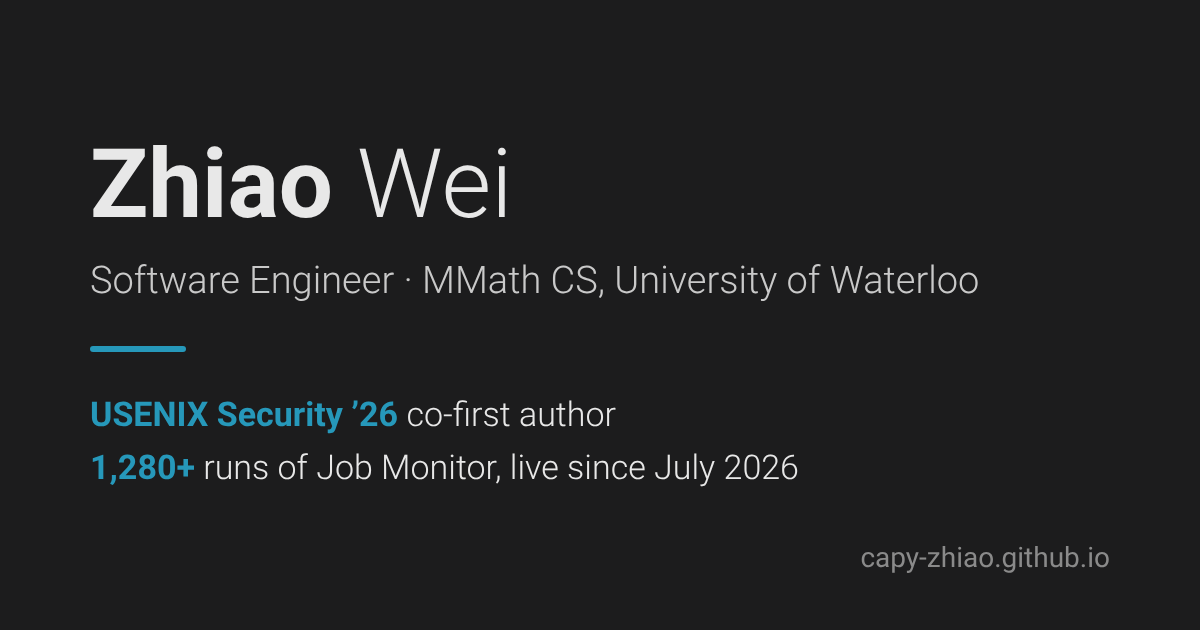
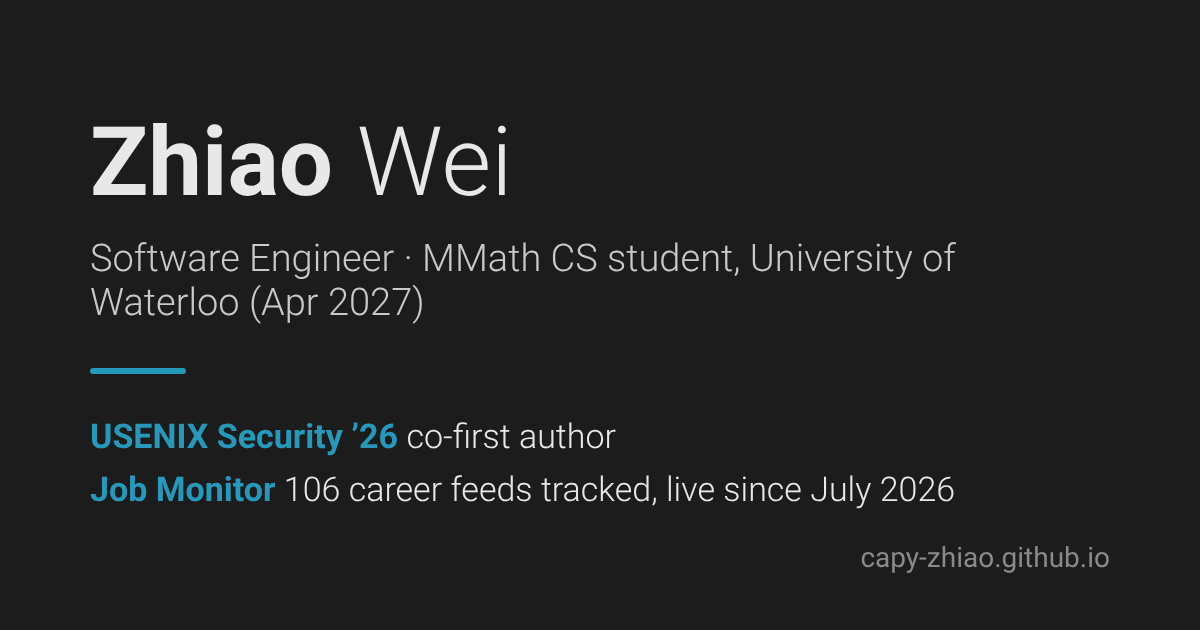
Homepage: tighten proof lines and polish after review
- Job Monitor line dated "as of October 2026" with "a 15-minute schedule",
  so the run count and the cadence no longer seem to contradict.
- LeetCode Tracker line says "200+ backend tests" and "built with Claude
  Code", as its project page does.
- Bio names the MMath supervision; the SaTS paper is marked "to appear,
  November 2026"; the card link reads "Live dashboard".
- Link-preview card says "MMath CS student ... (Apr 2027)" and drops the
  run count that previews would cache.
- Cards: thin border, links pinned to the bottom of each card. Phones: the
  experience rows stack the same way in every entry; narrower venue
  badges. Muted text raised to 4.5:1 contrast in both themes.

Claude-Session: https://claude.ai/code/session_01H6JoBrR1RSqRdoPetduxNY

diff --git a/assets/css/main.scss b/assets/css/main.scss
@@ -1,6 +1,6 @@
 ---
-# Local copy of al_folio_core 1.0.11's assets/css/main.scss; the only change is
-# the accent color passed to "variables" below.
+# Local copy of al_folio_core 1.0.11's assets/css/main.scss. Changes: the accent
+# color passed to "variables" below, and darker/lighter muted text at the end.
 ---
 @charset "utf-8";
 
@@ -35,3 +35,12 @@
 @use "tabs";
 @use "teachings";
 @use "typograms";
+
+/* Muted text (dates, locations, organisations): the theme's #828282 is under
+   4.5:1 contrast on both backgrounds. */
+:root {
+  --global-text-color-light: #666666;
+}
+html[data-theme="dark"] {
+  --global-text-color-light: #9a9a9a;
+}

diff --git a/_pages/about.md b/_pages/about.md
@@ -10,9 +10,9 @@ highlights:
   - value: USENIX Security ’26
     text: "co-first author. Our tool found 183 APIs in WeChat, Alipay, Baidu and QQ that skip permission checks; Alipay paid a $400 bug bounty."
   - value: 1,280+
-    text: successful runs of Job Monitor since July 2026, checking 106 career feeds every 15 minutes.
-  - value: "204"
-    text: automated tests, run in CI on every push, in LeetCode Tracker, my React + FastAPI app.
+    text: successful runs of Job Monitor as of October 2026, checking 106 career feeds on a 15-minute schedule.
+  - value: 200+
+    text: backend tests, run in CI on every push, in LeetCode Tracker, a React + FastAPI app I built with Claude Code.
 
 selected_projects: true # featured project cards (see _layouts/about.liquid)
 selected_papers: true # includes a list of papers marked as "selected={true}"
@@ -32,4 +32,4 @@ latest_posts:
   limit: 3 # leave blank to include all the blog posts
 ---
 
-I build backend services in Python and program-analysis tools in Java. Supervised by [Yousra Aafer](https://cs.uwaterloo.ca/~yaafer/).
+I build backend services in Python and program analysis tools in Java. My MMath research at Waterloo is supervised by [Prof. Yousra Aafer](https://cs.uwaterloo.ca/~yaafer/).

diff --git a/_projects/job_monitor.md b/_projects/job_monitor.md
@@ -7,7 +7,7 @@ importance: 1
 category: featured
 github: https://github.com/capy-zhiao/Job_Monitor
 links:
-  - label: Live demo
+  - label: Live dashboard
     url: https://capy-zhiao.github.io/Job_Monitor/
 ---
 
